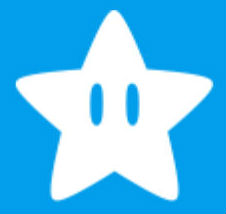
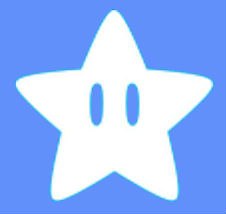
Add heading images and refactor route

diff --git a/src/containers/CardExpanded/CardExpanded.js b/src/containers/CardExpanded/CardExpanded.js
@@ -1,31 +1,16 @@
 import React, { Component } from 'react';
-import { connect } from 'react-redux';
 
 class CardExpanded extends Component {
-
-  findExpanded = () => {
-    const { amiibos } = this.props
-    const { id } = this.props.match.params
-    return amiibos.find(amiibo => {
-      return amiibo.id === id
-    })
-  }
-
   render() {
-    const amiibo = this.findExpanded();
     return (
       <div className="CardExpanded">
-        <h2>{amiibo.name}</h2>
-        <p>amiibo series: {amiibo.amiiboSeries}</p>
-        <p>game series: {amiibo.gameSeries}</p>
-        <p>release date: {amiibo.release.na}</p>
+        <h2>{this.props.name}</h2>
+        <p>amiibo series: {this.props.amiiboSeries}</p>
+        <p>game series: {this.props.gameSeries}</p>
+        <p>release date: {this.props.release.na}</p>
       </div>
     );
   }
 }
 
-export const mapStateToProps = state => ({
-  amiibos: state.amiibos
-});
-
-export default connect(mapStateToProps)(CardExpanded);
+export default CardExpanded;

diff --git a/src/components/Header/Header.scss b/src/components/Header/Header.scss
@@ -1,33 +1,12 @@
-.App {
-  text-align: center;
-}
-
-.App-logo {
-  animation: App-logo-spin infinite 20s linear;
-  height: 40vmin;
-  pointer-events: none;
-}
-
-.App-header {
-  background-color: #282c34;
-  min-height: 100vh;
+.Header {
   display: flex;
-  flex-direction: column;
-  align-items: center;
-  justify-content: center;
-  font-size: calc(10px + 2vmin);
-  color: white;
 }
 
-.App-link {
-  color: #61dafb;
+.star {
+  height: 100px;
+  width: 100px;
 }
 
-@keyframes App-logo-spin {
-  from {
-    transform: rotate(0deg);
-  }
-  to {
-    transform: rotate(360deg);
-  }
+.title {
+  
 }

diff --git a/src/containers/App/App.js b/src/containers/App/App.js
@@ -19,14 +19,14 @@ class App extends Component {
   componentDidMount = () => {
     this.props.getAmiibos();
   }
-
+  
   findAmiibo = ({ match }) => {
     const { amiibos } = this.props;
     const amiibo = amiibos.find(amiibo => amiibo.id === match.params.id);
     return amiibo ? ([
       <CardCarousel />,
       <CardExpanded {...amiibo} match={match} />
-    ]) : <ErrorMessage /> 
+    ]) : <ErrorMessage />
   }
 
   render() {

diff --git a/src/components/Header/Header.js b/src/components/Header/Header.js
@@ -3,7 +3,9 @@ import React from 'react';
 const Header = () => {
   return (
     <div className="Header">
+      <img className="star" src={require(`../../styles/images/star2.png`)} alt="Star"/>
       <h1 className="title">miibah</h1>
+      <img className="star" src={require(`../../styles/images/star2.png`)} alt="Star"/>
     </div>
   );
 }

diff --git a/src/styles/variables.scss b/src/styles/variables.scss
@@ -2,6 +2,6 @@ $brightpink: #f5d3e8;
 $salmon: #fcb7b6;
 $ice: #adcfed;
 $brightyellow: #ffeb3b; 
-$deepblue: #6293fc;
+$deepblue: #6192fa;
 $darkblue: #133185;
 $neutralpurple: #a9c5f5;

diff --git a/src/containers/App/App.scss b/src/containers/App/App.scss
@@ -1,0 +1,8 @@
+html {
+  height: 100%;
+  width: 100%;
+}
+
+body {
+  background-color: $deepblue;
+}
